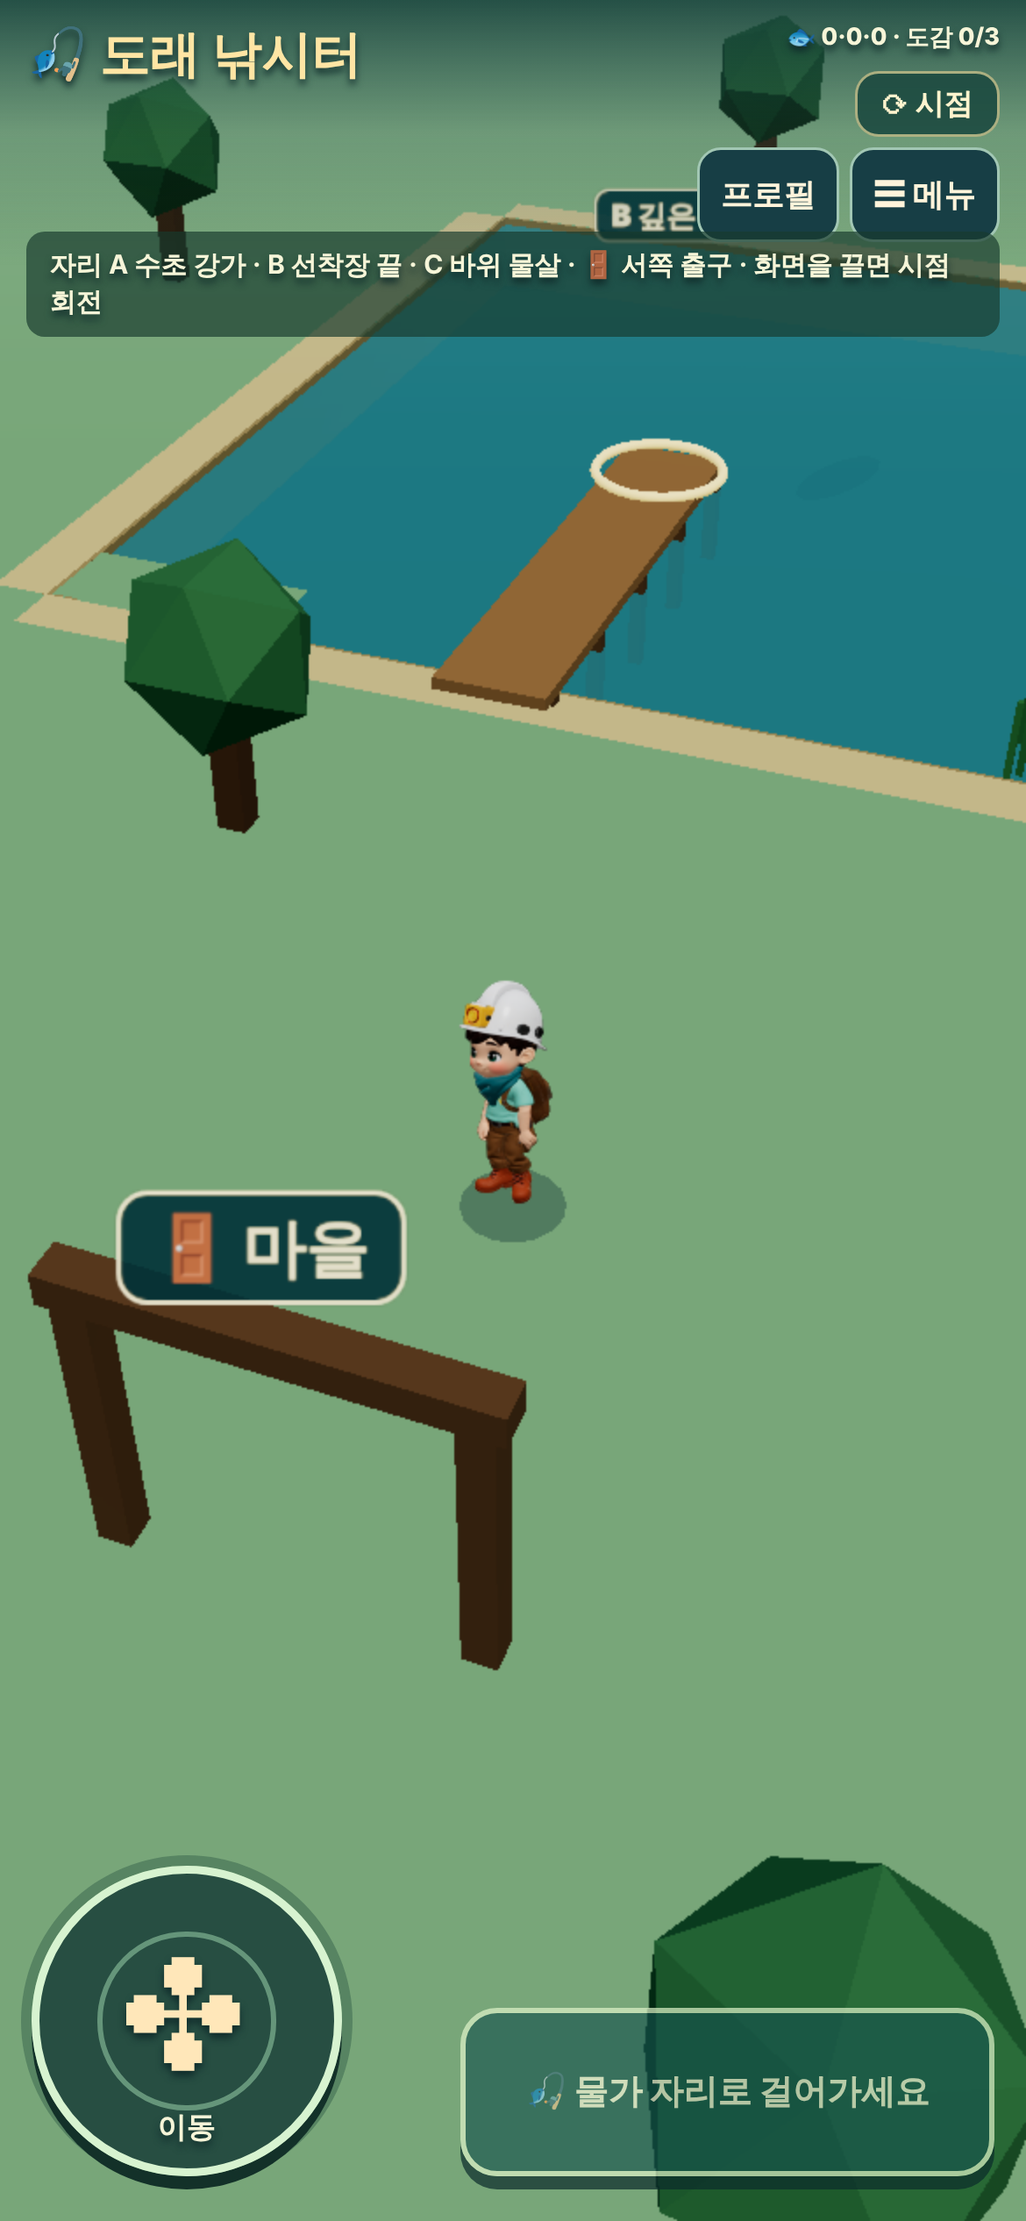
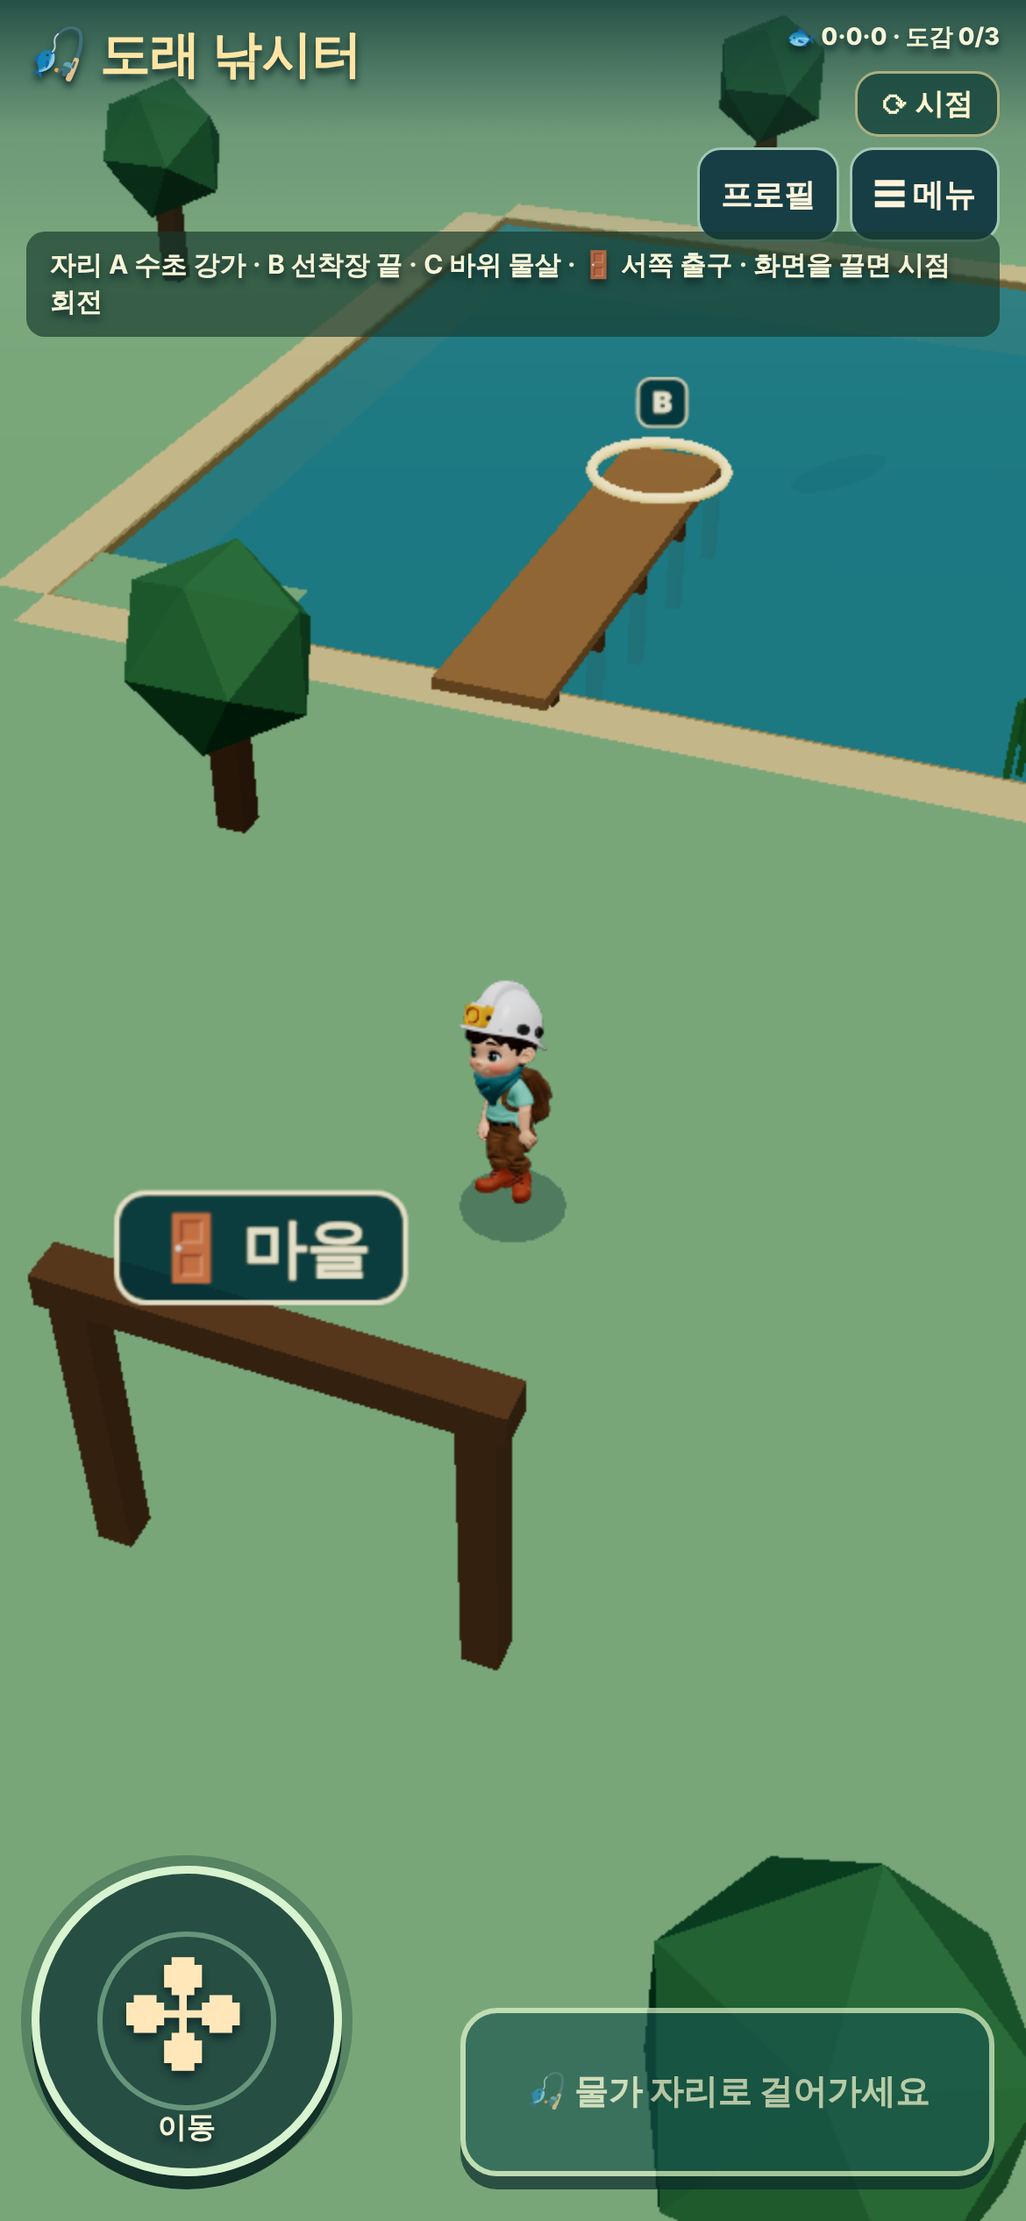
낚시터: 이온 A자리 그래픽 통합 + 이름표·도착 안내·재개 힌트·그림자 교대 보완
- 이온 d3a7fc8(A자리 그래픽 v0.3, 정적 WebP 12장 328,750B) 앞당겨 병합
- 3D 자리 이름표: 가까운 자리만 전체 이름, 멀면 글자 하나. 상단 안내·행동 버튼·화면
  가장자리를 피해 위→고리 위→숨김 순으로 배치(PC 잘림, 390 겹침 해결)
- 도착 안내 한 줄로 축소
- 재개·일시정지·나가기 카드에서 이전 감기 힌트 제거
- 머문 시간이 다 돼 떠나는 그림자는 즉시 교대(잡은 뒤 재출현 대기는 유지)
- QA: river-flow PC·390 각 40/0, scene-art 3모드 각 6/0, Gate 2~5 통과,
  무훅 390 27/0, 2D 대체 확인. 무훅 PC는 마을 키보드 걷기 봇이
  main 기준 빌드와 같은 지점에서 걸려 예산 초과(낚시 무관, README 기록)

Claude-Session: https://claude.ai/code/session_0137v9gsAX3Xcs31Jj4p4BZy

diff --git a/tools/fishing-s1/river-world.js b/tools/fishing-s1/river-world.js
@@ -74,7 +74,7 @@ function fishingWorldEnterCore(){
   flash('낚시터 저장에 실패했어요. 진입하지 않았습니다.');return false;
  }
  fwYaw=FW_VIEW.yaw;fwPitch=FW_VIEW.pitch;
- fishingWorldActivate();fwLastEnter=performance.now();fishingWorldToast('도래 낚시터에 도착했어요. 물가의 자리 A·B·C로 걸어가 보세요.');return true;
+ fishingWorldActivate();fwLastEnter=performance.now();fishingWorldToast('도래 낚시터 · 자리 A·B·C로 걸어가세요');return true;
 }
 function fishingWorldExitCore(){
  if(!fishingWorldActive||!fishingWorldNearGate()){fishingWorldToast('서쪽 출입구로 가까이 가야 돌아갈 수 있어요');return false;}
@@ -265,13 +265,14 @@ function fw3Mat(color,opts={}){return new window.THREE.MeshStandardMaterial({col
 function fw3Box(w,h,d,color,x,y,z){const T=window.THREE,m=new T.Mesh(new T.BoxGeometry(w,h,d),fw3Mat(color));m.position.set(x,y,z);fw3.scene.add(m);return m;}
 function fw3Plane(x0,z0,x1,z1,y,color,opts){const T=window.THREE,m=new T.Mesh(new T.PlaneGeometry(x1-x0,z1-z0),fw3Mat(color,opts));m.rotation.x=-Math.PI/2;m.position.set((x0+x1)/2,y,(z0+z1)/2);fw3.scene.add(m);return m;}
 function fw3Label(text,color){
- const T=window.THREE,c=document.createElement('canvas');c.width=512;c.height=112;const g=c.getContext('2d');
- g.font='900 52px system-ui,sans-serif';const w=Math.min(500,g.measureText(text).width+56);
- g.fillStyle='#183e42e6';g.beginPath();g.roundRect((512-w)/2,10,w,90,24);g.fill();g.strokeStyle='#fff0b8';g.lineWidth=4;g.stroke();
- g.fillStyle=color||'#fff0bb';g.textAlign='center';g.textBaseline='middle';g.fillText(text,256,57);
+ // canvas sized to the tag so short tags ("B") keep their proportions
+ const T=window.THREE,m=document.createElement('canvas').getContext('2d');m.font='900 52px system-ui,sans-serif';
+ const w=Math.ceil(Math.min(500,m.measureText(text).width+56)),c=document.createElement('canvas');c.width=w+8;c.height=112;const g=c.getContext('2d');
+ g.font='900 52px system-ui,sans-serif';g.fillStyle='#183e42e6';g.beginPath();g.roundRect(4,10,w,90,24);g.fill();g.strokeStyle='#fff0b8';g.lineWidth=4;g.stroke();
+ g.fillStyle=color||'#fff0bb';g.textAlign='center';g.textBaseline='middle';g.fillText(text,c.width/2,57);
  const tex=new T.CanvasTexture(c);tex.colorSpace=T.SRGBColorSpace;
- const sp=new T.Sprite(new T.SpriteMaterial({map:tex,depthTest:false,transparent:true}));sp.scale.set(3.4,.75,1);sp.renderOrder=10;fw3.scene.add(sp);
- sp.userData.canvas=c;sp.userData.text=text;return sp;
+ const sp=new T.Sprite(new T.SpriteMaterial({map:tex,depthTest:false,transparent:true}));sp.scale.set(.75*c.width/112,.75,1);sp.renderOrder=10;fw3.scene.add(sp);
+ sp.userData.text=text;return sp;
 }
 function fw3Sheet(dir){
  const T=window.THREE;if(fw3.sheets[dir])return fw3.sheets[dir];
@@ -303,12 +304,12 @@ function fw3Build(){
  }
  // gate to town
  fw3Box(.25,2.4,.25,0x6a4d31,FW_GATE.x,1.2,9.7);fw3Box(.25,2.4,.25,0x6a4d31,FW_GATE.x,1.2,12.3);fw3Box(.3,.25,3,0x6a4d31,FW_GATE.x,2.35,11);
- st.labels.gate=fw3Label('🚪 마을');st.labels.gate.position.set(FW_GATE.x,3.1,11);
+ st.gateLabel=fw3Label('🚪 마을');st.gateLabel.position.set(FW_GATE.x,3.1,11);
  // spot rings + labels
  for(const [id,sp] of Object.entries(FW_SPOTS)){
   const ring=new T.Mesh(new T.TorusGeometry(.85,.07,6,36),fw3Mat(0xfff0b8,{emissive:0xffd27a,emissiveIntensity:.5,flatShading:false}));
   ring.rotation.x=-Math.PI/2;ring.position.set(sp.x,fw3Floor(sp.x,sp.y)+.04,sp.y);st.scene.add(ring);st.rings[id]=ring;
-  const lab=fw3Label(sp.label);lab.position.set(sp.x,fw3Floor(sp.x,sp.y)+3.1,sp.y);st.labels[id]=lab;
+  st.labels[id]={pos:new T.Vector3(sp.x,fw3Floor(sp.x,sp.y)+3.1,sp.y),cache:{},cur:null};
  }
  // fish shadows under the surface (decoration; the fishing view decides real fish)
  for(let i=0;i<6;i++){const m=new T.Mesh(new T.CircleGeometry(.5,14),new T.MeshBasicMaterial({color:0x0e2a33,transparent:true,opacity:.45,depthWrite:false}));m.rotation.x=-Math.PI/2;m.scale.set(1+i*.25,.45+i*.08,1);m.position.y=-.5;st.scene.add(m);st.fish.push({m,cx:17+((i*2.3)%10),cz:4+i*2.4,r:1.2+i*.4,sp:.25+i*.05,ph:i});}
@@ -318,6 +319,29 @@ function fw3Build(){
  st.ready=true;
 }
 function fw3Floor(x,y){return fwDock(x,y)?.27:0;}
+// Spot name tags: full name within 9 units (or the spot you stand at / the hooked one), a letter
+// further away; hidden when the tag would land under the header/guide or past the screen edge.
+function fw3SafeTop(){const g=document.getElementById('fishWorldGuide'),r=fwRoot.getBoundingClientRect();return g&&!g.hidden?Math.max(0,g.getBoundingClientRect().bottom-r.top+6):60;}
+function fw3PlaceLabels(near,att){
+ const st=fw3,W=fwCanvasW,H=fwCanvasH,top=fw3SafeTop(),bottom=H-((document.getElementById('fishWorldAction')?.getBoundingClientRect().height)||60)-24,out={};
+ for(const [id,L] of Object.entries(st.labels)){
+  if(id==='gate')continue;
+  const sp=FW_SPOTS[id],hooked=att&&att.spot===id,full=id===near||hooked||Math.hypot(fwPlayer.x-sp.x,fwPlayer.y-sp.y)<9;
+  const text=full?sp.label+(hooked?' · 걸림':''):id+(hooked?' · 걸림':'');
+  let lab=L.cache[text];if(!lab){lab=fw3Label(text,hooked?'#ffb48a':null);lab.position.copy(L.pos);L.cache[text]=lab;}
+  for(const other of Object.values(L.cache))other.visible=false;
+  // try the tag above the ring first, then just over the ring (keeps far spots findable)
+  let ok=false;
+  for(const lift of [0,-2.2,-3.0]){
+   const at=L.pos.clone();at.y+=lift;
+   const v=at.clone().project(st.camera),sx=(v.x+1)/2*W,sy=(1-v.y)/2*H;
+   const tagH=Math.max(18,Math.abs(((at.clone().setY(at.y+.75).project(st.camera).y)-v.y)/2*H)),tagW=tagH*lab.scale.x/lab.scale.y;
+   if(v.z<1&&sy-tagH/2>=top&&sy+tagH/2<=bottom&&sx-tagW/2>=4&&sx+tagW/2<=W-4){lab.position.copy(at);ok=true;break;}
+  }
+  lab.visible=ok;L.cur=lab;out[id]=ok?text:'';
+ }
+ st.labelState=out;
+}
 function fw3Render(){
  const st=fw3,T=window.THREE;if(!st||!st.ready)return;
  const W=fwCanvasW,H=fwCanvasH;if(!W||!H)return;
@@ -332,8 +356,8 @@ function fw3Render(){
  st.player.position.set(fwPlayer.x,floor,fwPlayer.y);st.blob.position.set(fwPlayer.x,floor+.02,fwPlayer.y);
  // spot rings pulse, near spot highlighted, hooked spot tinted
  const near=fishingWorldNearSpot(),att=game?.livingP0?.river?.attempt;
- for(const [id,ring] of Object.entries(st.rings)){const on=id===near,k=1+(on?.12:.05)*Math.sin(t*4);ring.scale.set(k,k,k);ring.material.emissiveIntensity=on?1.1:.45;ring.material.color.set(att&&att.spot===id?0xffb48a:0xfff0b8);
-  const lab=st.labels[id],txt=FW_SPOTS[id].label+(att&&att.spot===id?' · 걸림':'');if(lab.userData.text!==txt){st.scene.remove(lab);const nl=fw3Label(txt,att&&att.spot===id?'#ffb48a':null);nl.position.copy(lab.position);st.labels[id]=nl;}}
+ for(const [id,ring] of Object.entries(st.rings)){const on=id===near,k=1+(on?.12:.05)*Math.sin(t*4);ring.scale.set(k,k,k);ring.material.emissiveIntensity=on?1.1:.45;ring.material.color.set(att&&att.spot===id?0xffb48a:0xfff0b8);}
+ st.camera.updateMatrixWorld();fw3PlaceLabels(near,att);
  for(const f of st.fish){const a=t*f.sp+f.ph;f.m.position.x=f.cx+Math.cos(a)*f.r;f.m.position.z=f.cz+Math.sin(a*1.3)*f.r*.6;f.m.rotation.z=-a;}
  for(const m of st.flow){m.position.x+=.03;if(m.position.x>25)m.position.x=20.5;}
  st.water.position.y=-.12+Math.sin(t*1.2)*.015;
@@ -369,7 +393,7 @@ function fw3Render(){
  window.addEventListener('resize',()=>{if(fishingWorldActive){fishingWorldResize();fishingWorldDraw();}});
 })();
 window.__sandstarFishingWorld=Object.freeze({
- state:()=>({worldId:fishingWorldActive?FISH_WORLD_ID:ssRegion,active:fishingWorldActive,player:{...fwPlayer},renderer:fwRenderer,yaw:fwYaw,pitch:fwPitch,
+ state:()=>({worldId:fishingWorldActive?FISH_WORLD_ID:ssRegion,active:fishingWorldActive,player:{...fwPlayer},renderer:fwRenderer,yaw:fwYaw,pitch:fwPitch,labels:fw3?.labelState||null,
   frameMs:fwFrameMs.length?(()=>{const a=[...fwFrameMs].sort((x,y)=>x-y);return {median:+a[a.length>>1].toFixed(1),p90:+a[Math.floor(a.length*.9)].toFixed(1),n:a.length};})():null,nearSpot:fishingWorldNearSpot(),nearGate:fishingWorldNearGate(),
   action:document.getElementById('fishWorldAction')?.textContent||'',saved:JSON.parse(JSON.stringify(game?.fishingWorldV1||null)),spots:FW_SPOTS,gate:FW_GATE}),
  testMove:(x,y)=>{if(!fishingWorldActive||fishingWorldBlocked(x,y))return false;fwPlayer.x=x;fwPlayer.y=y;game.fishingWorldV1.position={x,y};fishingWorldRefreshHud();fishingWorldDraw();return true;},

diff --git a/tools/fishing-s1/river-ui.js b/tools/fishing-s1/river-ui.js
@@ -123,7 +123,7 @@ function ssRiverStartFight(a,restored){
  const tune=RIVER_FIGHT[a.fish];
  ssRiver.fight={id:a.id,fish:a.fish,size:a.size,progress:a.progress,strain:0,stall:false,pi:0,pt:0,pdur:0,bonus:0,taut:0,wob:0};
  ssRiverNextPhase(true);ssRiver.phase='fight';ssRiver.savedQuarter=Math.floor(a.progress/25);
- if(restored){ssRiver.paused=true;ssRiver.card='resume';}
+ if(restored){ssRiver.paused=true;ssRiver.card='resume';ssRiverClearHint();}
  else ssRiverSay(tune.phases[0][0]==='loose'?'힘이 풀렸어요. 길게 감으세요':'틈이 보이면 감으세요. 손을 떼도 진도는 남아요',2.6);
  ssRiverRender();
 }
@@ -194,9 +194,10 @@ function ssRiverCommand(type,extra){
  if(!saveGame(true)){game.livingP0=oldState;game.inv=oldInv;game.coins=oldCoins;return {ok:false,reason:'저장에 실패해 결과를 확정하지 못했어요. 저장 공간을 확인해 주세요'};}
  updHud();return r;
 }
+function ssRiverClearHint(){ssRiver.hint='';ssRiver.hintUntil=0;const el=ssRiverEl('riverHint');if(el)el.textContent=ssRiverDefaultHint();}
 function ssRiverPause(reason){
  if(!ssRiverIsOpen||ssRiver.paused)return;
- ssRiverRelease();
+ ssRiverRelease();ssRiverClearHint();
  if(ssRiver.phase==='fight'||ssRiver.phase==='bite'||ssRiver.phase==='lure'){ssRiver.paused=true;ssRiver.card='pause';ssRiverSaveProgress(true);ssRiverRender();}
 }
 function ssRiverResume(){ssRiver.paused=false;ssRiver.card=null;ssRiver.ready=.9;ssRiverSay('준비…',.9);ssRiverRender();}
@@ -237,7 +238,7 @@ function ssRiverTickFish(dt){
   }else{
    if(!L)f.interest=Math.max(0,f.interest-dt*.2);
    // shadows drift on after a while so the spot's mix rotates without reopening the view
-   f.stayT-=dt;if(f.stayT<=0&&f.interest<.1){f.state='leave';f.dir=f.x>ssRiver.W*.6?1:-1;continue;}
+   f.stayT-=dt;if(f.stayT<=0&&f.interest<.1){f.state='leave';f.dir=f.x>ssRiver.W*.6?1:-1;ssRiverSpawn(false);continue;}
    if(f.species==='perch'){if(f.x<f.patrol[0])f.dir=1;else if(f.x>f.patrol[1])f.dir=-1;}
    else{f.turnT-=dt;if(f.turnT<=0){f.turnT=ssRiverRand(1.5,4);f.dir*=-1;}}
    f.x+=f.dir*f.speed*.5*dt;f.y+=(f.homeY-f.y)*dt*.5+Math.sin(ssRiver.t*1.3+f.id)*dt*(f.species==='carp'?2:5);
@@ -420,14 +421,14 @@ function ssRiverCardAction(act){
  hold.addEventListener('contextmenu',e=>e.preventDefault());
  hold.addEventListener('click',e=>{if(e.detail===0){ssRiverPress();setTimeout(ssRiverRelease,120);}});
  ssRiverEl('riverRetrieve').addEventListener('click',()=>ssRiverRetrieve());
- ssRiverEl('riverPause').addEventListener('click',()=>{if(ssRiver.paused)ssRiverResume();else{ssRiverRelease();ssRiver.paused=true;ssRiver.card='pause';ssRiverSaveProgress(true);ssRiverRender();}});
- ssRiverEl('riverExit').addEventListener('click',()=>{if(ssRiver.phase==='fight'){ssRiverRelease();ssRiver.paused=true;ssRiver.card='exitfight';ssRiverSaveProgress(true);ssRiverRender();}else ssRiverClose();});
+ ssRiverEl('riverPause').addEventListener('click',()=>{if(ssRiver.paused)ssRiverResume();else{ssRiverRelease();ssRiverClearHint();ssRiver.paused=true;ssRiver.card='pause';ssRiverSaveProgress(true);ssRiverRender();}});
+ ssRiverEl('riverExit').addEventListener('click',()=>{if(ssRiver.phase==='fight'){ssRiverRelease();ssRiverClearHint();ssRiver.paused=true;ssRiver.card='exitfight';ssRiverSaveProgress(true);ssRiverRender();}else ssRiverClose();});
  ssRiverEl('riverSpots').addEventListener('click',e=>{const b=e.target.closest('button[data-spot]');if(b)ssRiverSetSpot(b.dataset.spot);});
  ssRiverEl('riverCard').addEventListener('click',e=>{const b=e.target.closest('button[data-river]');if(b){e.preventDefault();ssRiverCardAction(b.dataset.river);}});
  ssRiverEl('riverAssist').addEventListener('change',e=>{const r=ssRiverState();if(r){r.assist=!!e.target.checked;saveGame(true);}});
  window.addEventListener('keydown',e=>{if(!ssRiverIsOpen)return;const k=e.key.toLowerCase();
   if(k===' '||k==='f'){e.preventDefault();e.stopImmediatePropagation();if(!e.repeat)ssRiverPress();}
-  else if(k==='escape'){e.preventDefault();e.stopImmediatePropagation();if(ssRiver.phase==='fight'){ssRiverRelease();ssRiver.paused=true;ssRiver.card='exitfight';ssRiverSaveProgress(true);ssRiverRender();}else ssRiverClose();}
+  else if(k==='escape'){e.preventDefault();e.stopImmediatePropagation();if(ssRiver.phase==='fight'){ssRiverRelease();ssRiverClearHint();ssRiver.paused=true;ssRiver.card='exitfight';ssRiverSaveProgress(true);ssRiverRender();}else ssRiverClose();}
   else if(['1','2','3'].includes(k)){e.preventDefault();e.stopImmediatePropagation();ssRiverSetSpot('ABC'[Number(k)-1]);}
   else if(k==='r'){e.preventDefault();e.stopImmediatePropagation();ssRiverRetrieve();}
   else if(['w','a','s','d','e','arrowleft','arrowright','arrowup','arrowdown','m','t'].includes(k)){e.preventDefault();e.stopImmediatePropagation();}

diff --git a/docs/fishing-s1/README.md b/docs/fishing-s1/README.md
@@ -104,6 +104,19 @@ river: {
 
 실기기(특히 Android 중저가)에서 프레임을 재야 합니다. `__sandstarFishingWorld.state().frameMs`가 최근 90프레임 중앙값·p90을 돌려줍니다.
 
+## 이온 A자리 그래픽 통합과 화면 보완 (2026-11-28)
+
+- **이온 그래픽 v0.3**(`d3a7fc8`, `A-SPOT-ART.md`): A자리의 2.5D/2D 낚시 화면에 배경·둑·수면·수중·바닥 레이어, 수초·돌, 3종 유영, 찌, 낚시인 4포즈(256 칸, 발 기준 (128, 241))를 붙였습니다.
+  - WebP 12장, 합계 328,750바이트이고 `/fishing-s1/a-v03/` 정적 파일로만 제공합니다. `stage-art.py`가 SHA-256을 확인합니다.
+  - 이미지가 없으면 기본 그림으로 돌아갑니다. B/C, 포획 로직, 저장, 3D 장면은 그대로입니다.
+  - 출처는 모아가 확인했습니다(Pillow·Blender 절차 생성, 외부 입력 없음).
+- **3D 자리 이름표**(여울 지적: PC에서 B 이름표 위쪽 잘림, 390에서 프로필·메뉴·상단 안내와 겹침):
+  - 9칸 안이거나 서 있는 자리, 물고기가 걸린 자리는 전체 이름을 보여주고, 멀면 글자 하나(A/B/C)로 줄입니다.
+  - 상단 안내 아래·행동 버튼 위·화면 좌우 안쪽에 들어갈 때만 표시합니다. 위가 안 되면 고리 바로 위로 내려 붙이고, 그래도 안 되면 숨깁니다.
+- **도착 안내**를 한 줄('도래 낚시터 · 자리 A·B·C로 걸어가세요')로 줄였습니다. 이전 안내는 선착장을 가렸습니다.
+- **재개·일시정지·나가기 카드**를 열 때 이전 감기 힌트를 지우고 일반 안내로 돌립니다. 이전에는 멈춘 화면에 '감으세요'가 남았습니다.
+- **그림자 교대**: 머문 시간이 다 돼 떠나는 그림자는 곧바로 새 그림자로 바뀝니다. 그래서 물이 비는 구간이 없습니다. 잡은 뒤의 재출현 대기(12초, 생선 스튜 버프 6초)는 그대로입니다.
+
 ## 생활 시계 (2026-11-27 추가)
 
 횡스크롤 기본 루프는 일시정지가 아닐 때 `livingWorldTick(dt)`로 공용 생활 시계를 흘립니다. 낚시 화면은 열 때 `paused=true`로 그 루프를 멈추기 때문에, 처음 구현에서는 낚시하는 동안만 시계가 멈췄습니다. (처음에 '숲 전체가 원래 멈춰 있다'고 설명한 것은 잘못된 설명이었습니다.)
@@ -146,18 +159,19 @@ river: {
 - 생활 메뉴 낚시 탭: 강변 위치, 걸린 물고기 상태, 어종별 최고 크기 표시
 - 마을 '낚시터 (준비 중)' 게이트 안내: '…지금은 잔빛숲 강변(X64)에서 낚시할 수 있어요'. 게이트 자체는 계속 닫혀 있습니다.
 
-## QA (로컬, 2026-11-27 · 3D 도래 낚시터 기준)
+## QA (로컬, 2026-11-28 · 3D 도래 낚시터 + 이온 그래픽 기준)
 
 | 검사 | 결과 |
 |---|---|
-| `river-flow.cjs` PC 1280×800 (3D) | 37 pass / 0 fail |
-| `river-flow.cjs` 390×844 (iPhone 13 에뮬레이션, 3D) | 37 pass / 0 fail |
+| `river-flow.cjs` PC 1280×800 (3D) | 40 pass / 0 fail |
+| `river-flow.cjs` 390×844 (iPhone 13 에뮬레이션, 3D) | 40 pass / 0 fail |
+| 이온 `scene-art.cjs` PC / 390 / 390 움직임 줄이기 | 각 6 pass / 0 fail |
 | `fallback-probe.cjs` (three 숨김) | 2D로 진입, 자리 A에서 낚시 화면 열림, 페이지 오류 0 |
 | Gate 2 / 3 / 4 (QA 빌드) | 92 / 60 / 36 pass, 0 fail |
 | Gate 5 회귀 (v44 원본 대 후보) | 46 pass, 0 fail |
-| 무훅 실시간 흐름 | 390 27/0, PC 26/0 |
+| 무훅 실시간 흐름 | 390 27/0. PC는 이번 빌드에서 세 번 실행해 세 번 모두 마을 키보드 걷기(농장 입구까지)에서 멈췄습니다. 같은 걷기를 따로 추적해 보니 main 기준 빌드와 이번 빌드 모두 x-10.8 근처 소품에 막혀 90걸음 예산 중 55~64걸음을 썼습니다. 검사 봇의 걷기 방식 문제로 보이고, 낚시 변경과는 관련이 없어 보입니다. 이전 커밋에서는 26/0 통과 |
 
-`river-flow.cjs`의 항목: 숲에서 원목 → 마을 복귀 → 낚시터 입구 → 낚시터 도착·저장, 자리 A까지 걸어가 열기(PC는 카메라 각도에 맞춰 방향키를 고름), 낚싯대 제작, 자리 고정(B/C 버튼 꺼짐), 수초 보정, A 피라미·C 강농어·B 비단잉어 포획, 코인 불변, 무입력·연속 홀드·쉬기 규칙, 진도 30%에서 새로고침 → 낚시터 B에서 이어하기 → A에서는 안 열림 → B에서 같은 물고기로 한 번만 포획, 재전송 거부, 탭 숨김 일시정지, 390 레이아웃, 낚시터 생활 시계(+3초/3초), 낚시터 HUD, 서쪽 출구로 마을 복귀·위치·저장, 옛 m17 진행 저장 이어하기, 페이지 오류 0건.
+`river-flow.cjs`의 항목: 숲에서 원목 → 마을 복귀 → 낚시터 입구 → 낚시터 도착·저장, 도착 안내 한 줄, 3D 이름표 상태, 자리 A까지 걸어가 열기(PC는 카메라 각도에 맞춰 방향키를 고름), 낚싯대 제작, 자리 고정(B/C 버튼 꺼짐), 수초 보정, A 피라미·C 강농어·B 비단잉어 포획, 코인 불변, 무입력·연속 홀드·쉬기 규칙, 진도 30%에서 새로고침 → 낚시터 B에서 이어하기 → A에서는 안 열림 → B에서 같은 물고기로 복원(재개 카드에 이전 감기 힌트 없음) → 한 번만 포획, 재전송 거부, 탭 숨김 일시정지, 390 레이아웃, 낚시터 생활 시계(+3초/3초), 낚시터 HUD, 서쪽 출구로 마을 복귀·위치·저장, 옛 m17 진행 저장 이어하기, 페이지 오류 0건.
 
 ### 이전 기록 (잔빛숲 강변, 2026-11-25)
 
